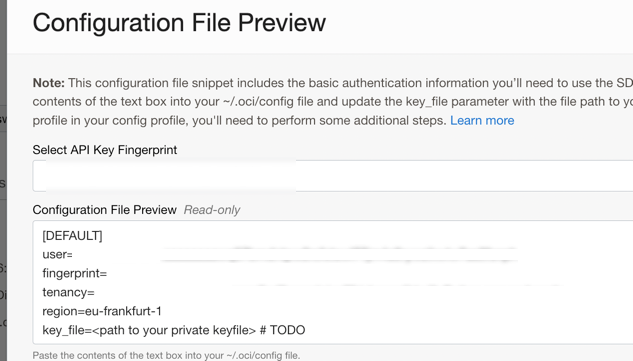
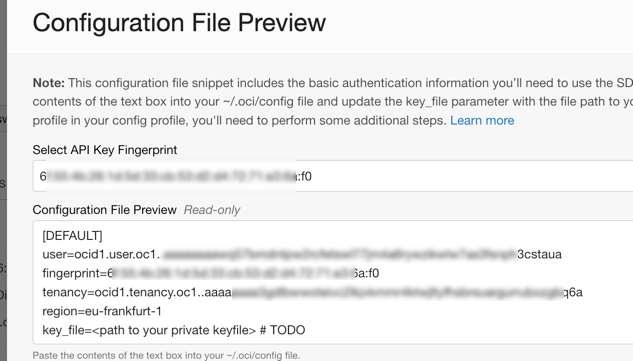
get logs to splunk

Changed region(s): [[0.09, 0.6704, 0.9305, 0.8532], [0.06, 0.4571, 0.5103, 0.518]]

diff --git a/observability-and-management/assets/get-logs-into-splunk-from-oci-object-storage/README.md b/observability-and-management/assets/get-logs-into-splunk-from-oci-object-storage/README.md
@@ -1,0 +1,143 @@
+# How to get logs into Splunk from OCI object storage
+
+One of the methods of Ingesting OCI Logs into a Splunk Instance without using a public-facing endpoint is by using and OCI Object Storage as the source of the Logs. This solution is not a Near-Real time one, but it has the capability to move the logs using Oracle Backbone without using any Internet facing solution.
+
+The solution that I proposed is based on:
+
+1. OCI Logging/OCI Audit
+
+2. Service Gateway
+
+3. Object Storage
+
+4. OCI CLI
+
+5. OCI VCN
+
+6. Service Connector
+
+7. Splunk capability to read files from folders (In my case, the VM is the Splunk instance, running in OCI)
+
+In the Diagram, the Splunk instance can reside on-premise or in OCI as is in my case and will use OCI CLI to get the logs locally.
+
+![Picture 32](./images/image-01.png)
+
+1 — Create a new OCI Bucket used for logs Storage →Buckets
+
+![Picture 31](./images/image-02.png)
+
+![Picture 30](./images/image-03.png)
+
+2 — After the bucket is selected, you need to create a Service Connector that will send the logs to the Bucket.
+
+![Picture 29](./images/image-04.png)
+
+3 — Give the Service connector a name, and select the Source as Logging:
+
+![Picture 28](./images/image-05.png)
+
+and the Target Object Storage
+
+![Picture 27](./images/image-06.png)
+
+4 — Select the Logs you want to send to Splunk:
+
+![Picture 26](./images/image-07.png)
+
+5 — Select the Target Bucket that you previously created:
+
+![Picture 25](./images/image-08.png)
+
+6 — Press Create to allow Service Connector to use the bucket:
+
+![Picture 24](./images/image-09.png)
+
+7 — Press Create again to create the Service Connector:
+
+![Picture 23](./images/image-10.png)
+
+8 — Your Service Creator should be Active and showing the Source and the Target.
+
+![Picture 22](./images/image-11.png)
+
+9 — If you click on the connector you should see the configured Sources and you can edit it to add more logs.
+
+![Picture 21](./images/image-12.png)
+
+10 — Next step on my enviornment was to connect to my splunk instance (ssh)
+
+11 — Create a folder for the logs( any location from where Splunk can read)
+
+mkdir /home/opc/logs
+
+12 — Make sure you have OCI CLI Installed. You can use this page for your your OS of choice:
+
+Quickstart
+
+This section contains quick installation instructions for the following environments: If you're using Oracle Linux 8…
+
+docs.oracle.com
+
+I have used the bash script:
+
+```text
+bash -c "$(curl -L https://raw.githubusercontent.com/oracle/oci-cli/master/scripts/install/install.sh)"
+```
+
+I have also used oci setup command to generate the configuration file and generate the API key that I have uploaded to a dedicated user. The configuration file will contain this data into the profile.
+
+![Picture 19](./images/image-13.png)
+
+Go to the user → Resources and press [API Keys](https://docs.cloud.oracle.com/Content/API/Concepts/apisigningkey.htm). Add the key that was generated by oci setup command.
+
+![Picture 18](./images/image-14.png)
+
+![Picture 17](./images/image-15.png)
+
+Check if the configuration file was succesful by running any oci cli command. I have used oci ds ns get
+
+![Picture 16](./images/image-16.png)
+
+Now that OCI CLI works I will run a bulk download command to get the logs:
+
+```text
+oci os object bulk-download — bucket-name LogTest1— download-dir ocid1.serviceconnector.oc1.eu-frankfurt-1.amaaaxcxxxxxx / — no-overwrite
+```
+
+Replace LogTest 1 and Directory name with your own .
+
+Logs will go to the folder:
+
+![Picture 15](./images/image-17.png)
+
+Next step is to go to Splunk and specify the folder from where to read the data Login → Press Settings → Data Inputs:
+
+![Picture 14](./images/image-18.png)
+
+Click Files and Directory → Add New:
+
+![Picture 13](./images/image-19.png)
+
+Press Browse and select the location where the files are downloaded:
+
+![Picture 12](./images/image-20.png)
+
+You can enforce the file type by using a regex. OCI Logs are in log.gz format.
+
+![Picture 11](./images/image-21.png)
+
+Click on Files and Directories and you should see the logs being ingested by splunk:
+
+![Picture 10](./images/image-22.png)
+
+If you have installed Splunk App for OCI logs, you will be able also to see the data parsed in that app with different dashboards:
+
+![Picture 9](./images/image-23.png)
+
+![Picture 8](./images/image-24.png)
+
+Congratulations! You have ingested now logs into Splunk using OCI Object Storage.
+
+To be sure that your traffic is private, you need to check the private route table and see that All FRA Services are routed through your VCN Service Gateway.
+
+![Picture 7](./images/image-25.png)